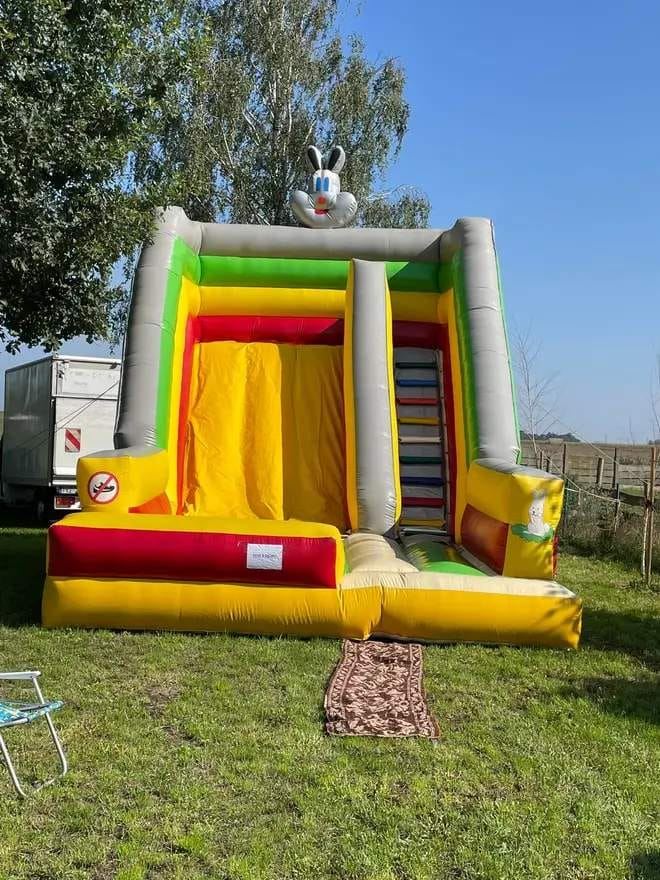
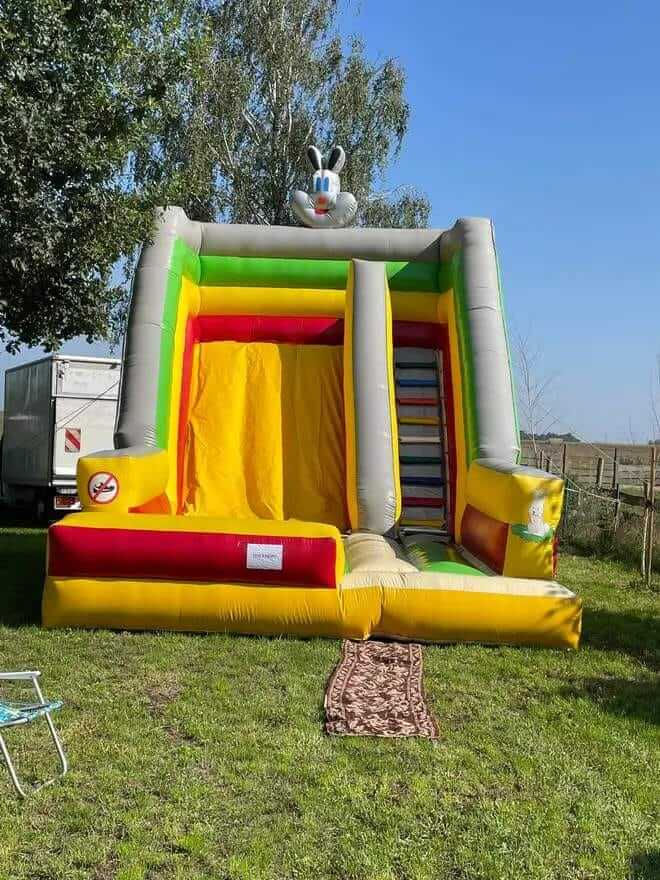
Change images format and reduce size

diff --git a/pages/index.vue b/pages/index.vue
@@ -75,6 +75,7 @@ const accordions = [
               alt="Obrazek zamku dmuchanego"
               width="596"
               height="596"
+              format="webp"
               class="-mt-4"
             />
           </div>
@@ -86,6 +87,7 @@ const accordions = [
           alt="Ikona kulki"
           width="24"
           height="24"
+          format="webp"
           class="absolute hidden w-6 sm:block bottom-12 xl:bottom-16 left-4 xl:left-0"
         />
         <NuxtImg
@@ -95,6 +97,7 @@ const accordions = [
           alt="Ikona kulki"
           width="24"
           height="24"
+          format="webp"
           class="hidden sm:block absolute top-4 sm:top-10 right-64 sm:right-96 xl:right-[32rem] w-6"
         />
         <NuxtImg
@@ -104,6 +107,7 @@ const accordions = [
           alt="Ikona kulki"
           width="24"
           height="24"
+          format="webp"
           class="absolute hidden w-6 sm:block bottom-56 right-24"
         />
         <NuxtImg
@@ -113,6 +117,7 @@ const accordions = [
           alt="Ikona gwiazdki"
           width="32"
           height="32"
+          format="webp"
           class="hidden sm:block absolute top-20 sm:top-28 right-16 lg:right-0 lg:left-[30rem] w-8"
         />
       </BaseSection>
@@ -136,7 +141,7 @@ const accordions = [
         </div>
         <div data-aos="fade-down" class="relative col-span-12 md:col-span-6 md:h-[315px] h-[160px]">
           <BaseYoutubeVideo
-            imageUrl="/img/gallery/duze-zjezdzalnie/dmuchana_zjeżdżalnia.jpeg"
+            imageUrl="/img/gallery/duze-zjezdzalnie/nowy-dmuchany-zamek.webp"
             videoId="FfinzxzyKUg"
             altText="Film z drona pokazującydmuchane zjeżdżalnie"
           />
@@ -149,6 +154,7 @@ const accordions = [
           alt="Ikona gwiazdki"
           width="24"
           height="24"
+          format="webp"
           loading="lazy"
           class="absolute hidden w-6 sm:block bottom-12 xl:bottom-16 left-4 xl:left-16"
         />
@@ -193,6 +199,7 @@ const accordions = [
           alt="Ikona kulki"
           width="24"
           height="24"
+          format="webp"
           loading="lazy"
           class="absolute hidden w-6 sm:block bottom-12 xl:top-16 right-4 xl:right-1/4"
         />
@@ -210,7 +217,7 @@ const accordions = [
           data-aos="fade-up"
           title="Dmuchane zjeżdżalnie"
           alt="Zdjęie zmuchanej zjeżdżalni"
-          pathPreview="/img/gallery/duze-zjezdzalnie/dmuchana_zjeżdżalnia.jpeg"
+          pathPreview="/img/gallery/duze-zjezdzalnie/nowy-dmuchany-zamek.webp"
           pathPage="/galeria/duze-zjezdzalnie"
           class="col-span-12 sm:col-span-6 md:col-span-4"
         />
@@ -220,8 +227,53 @@ const accordions = [
           data-aos-delay="100"
           title="Baseny z kulkami"
           alt="Zdjęie basenu z kulkami"
-          pathPreview="/img/gallery/baseny/basen z kulkami.jpeg"
+          pathPreview="/img/gallery/baseny/basen-z-kulkami.webp"
           pathPage="/galeria/baseny-z-kulkami"
+          class="col-span-12 sm:col-span-6 md:col-span-4"
+        />
+        <LandingTile
+          data-aos="fade-up"
+          data-aos-delay="200"
+          title="Kule wodne, łódeczki"
+          alt="Zdjęie rowerów wodnych"
+          pathPreview="/img/gallery/kule-wodne-lodeczki/rowery-wodne.webp"
+          pathPage="/galeria/kule-wodne-lodeczki"
+          class="col-span-12 sm:col-span-6 md:col-span-4"
+        />
+
+        <LandingTile
+          data-aos="fade-up"
+          title="Bramka celnościowa"
+          alt="Bramka celnościowa"
+          pathPreview="/img/gallery/bramka-celnosciowa/bramka-do-pilki.webp"
+          pathPage="/galeria/bramka-celnosciowa"
+          class="col-span-12 sm:col-span-6 md:col-span-4"
+        />
+        <LandingTile
+          data-aos="fade-up"
+          data-aos-delay="100"
+          title="Namioty imprezowe"
+          alt="Namioty imprezowe"
+          pathPreview="/img/gallery/namioty-imprezowe/namioty.webp"
+          pathPage="/galeria/namioty-imprezowe"
+          class="col-span-12 sm:col-span-6 md:col-span-4"
+        />
+        <LandingTile
+          data-aos="fade-up"
+          data-aos-delay="200"
+          title="Sztuczna krowa"
+          alt="Sztuczna krowa."
+          pathPreview="/img/gallery/sztuczna-krowa/sztuczna-krowa-do-dojenia.webp"
+          pathPage="/galeria/sztuczna-krowa"
+          class="col-span-12 sm:col-span-6 md:col-span-4"
+        />
+
+        <LandingTile
+          data-aos="fade-up"
+          title="Wata cukrowa, popcorn"
+          alt="Wata cukrowa"
+          pathPreview="/img/gallery/wata-cukrowa-popcorn/wata-cukrowa.webp"
+          pathPage="/galeria/wata-cukrowa-popcorn"
           class="col-span-12 sm:col-span-6 md:col-span-4"
         />
         
@@ -233,6 +285,7 @@ const accordions = [
           alt="Ikona kulki"
           width="12"
           height="12"
+          format="webp"
           loading="lazy"
           class="absolute hidden w-3 sm:block bottom-12 xl:top-2 xl:right-3/4"
         />
@@ -298,6 +351,7 @@ const accordions = [
           alt="Ikona gwiazdki"
           width="24"
           height="24"
+          format="webp"
           loading="lazy"
           class="absolute hidden w-6 sm:block xl:top-2 xl:right-3/4"
         />
@@ -307,6 +361,7 @@ const accordions = [
           alt="Ikona gwiazdki"
           width="24"
           height="24"
+          format="webp"
           loading="lazy"
           class="absolute hidden w-6 sm:block xl:top-9 xl:left-3/4"
         />
@@ -365,6 +420,7 @@ const accordions = [
               alt="Obrazek z logo partnera"
               width="288"
               height="139"
+              format="webp"
               loading="lazy"
               class="mx-auto sm:w-1/2 md:w-1/4 lg:w-72"
             />

diff --git a/pages/galeria/duze-zjezdzalnie.vue b/pages/galeria/duze-zjezdzalnie.vue
@@ -8,7 +8,7 @@ const paths = [
     '/img/gallery/duze-zjezdzalnie/dmuchana zjezdzalnia.jpeg',
     '/img/gallery/duze-zjezdzalnie/dmuchana zjeżdżalnia dla dzieci.jpeg',
     '/img/gallery/duze-zjezdzalnie/dmuchana zjeżdżalnia.jpeg',
-    '/img/gallery/duze-zjezdzalnie/dmuchana_zjeżdżalnia.jpeg',
+    '/img/gallery/duze-zjezdzalnie/nowy-dmuchany-zamek.webp',
     '/img/gallery/duze-zjezdzalnie/dmuchana-zjeżdżalnia.jpeg',
     '/img/gallery/duze-zjezdzalnie/dmuchane zamki.jpeg',
     '/img/gallery/duze-zjezdzalnie/dmuchany zamek dla dzieci.jpeg',

diff --git a/pages/galeria/kule-wodne-lodeczki.vue b/pages/galeria/kule-wodne-lodeczki.vue
@@ -1,0 +1,15 @@
+<script lang="ts" setup>
+definePageMeta({
+  layout: false,
+});
+
+const paths = [
+    '/img/gallery/kule-wodne-lodeczki/kule-wodne.jpeg',
+    '/img/gallery/kule-wodne-lodeczki/rowery-wodne.webp',
+    '/img/gallery/kule-wodne-lodeczki/rowery-wodne2.jpeg',
+];
+</script>
+
+<template>
+    <NuxtLayout name="gallery" :paths="paths" title="Kule wodne, lódeczki"/>
+</template>

diff --git a/pages/galeria/namioty-imprezowe.vue b/pages/galeria/namioty-imprezowe.vue
@@ -1,0 +1,15 @@
+<script lang="ts" setup>
+definePageMeta({
+  layout: false,
+});
+
+const paths = [
+    '/img/gallery/namioty-imprezowe/namiot.jpeg',
+    '/img/gallery/namioty-imprezowe/namioty-na-impreze.jpeg',
+    '/img/gallery/namioty-imprezowe/namioty.webp',
+];
+</script>
+
+<template>
+    <NuxtLayout name="gallery" :paths="paths" title="Namioty imprezowe"/>
+</template>

diff --git a/pages/galeria/baseny-z-kulkami.vue b/pages/galeria/baseny-z-kulkami.vue
@@ -5,7 +5,7 @@ definePageMeta({
 
 const paths = [
   '/img/gallery/baseny/dmuchany basen z kulkami.jpeg',
-  '/img/gallery/baseny/basen z kulkami.jpeg',
+  '/img/gallery/baseny/basen-z-kulkami.webp',
   '/img/gallery/baseny/basen_na_kulki.jpeg',
   '/img/gallery/baseny/basen_z_kulkami.jpeg',
   '/img/gallery/baseny/dmuchany_basen_z_kulkami.jpeg',

diff --git a/pages/galeria/bramka-celnościowa.vue b/pages/galeria/bramka-celnościowa.vue
@@ -1,0 +1,14 @@
+<script lang="ts" setup>
+definePageMeta({
+  layout: false,
+});
+
+const paths = [
+    '/img/gallery/bramka-celnosciowa/bramka-celnosciowa.jpeg',
+    '/img/gallery/bramka-celnosciowa/bramka-do-pilki.webp',
+];
+</script>
+
+<template>
+    <NuxtLayout name="gallery" :paths="paths" title="Bramka celnościowa"/>
+</template>

diff --git a/pages/galeria/sztuczna-krowa.vue b/pages/galeria/sztuczna-krowa.vue
@@ -1,0 +1,14 @@
+<script lang="ts" setup>
+definePageMeta({
+  layout: false,
+});
+
+const paths = [
+    '/img/gallery/sztuczna-krowa/sztuczna-krowa-do-dojenia.webp',
+    '/img/gallery/sztuczna-krowa/sztuczna-krowa.jpeg',
+];
+</script>
+
+<template>
+    <NuxtLayout name="gallery" :paths="paths" title="Namioty imprezowe"/>
+</template>

diff --git a/pages/galeria/wata-cukrowa-popcorn.vue b/pages/galeria/wata-cukrowa-popcorn.vue
@@ -1,0 +1,14 @@
+<script lang="ts" setup>
+definePageMeta({
+  layout: false,
+});
+
+const paths = [
+    '/img/gallery/wata-cukrowa-popcorn/popcorn.jpeg',
+    '/img/gallery/wata-cukrowa-popcorn/wata-cukrowa.webp',
+];
+</script>
+
+<template>
+    <NuxtLayout name="gallery" :paths="paths" title="Wata cukrowa, popcorn"/>
+</template>

diff --git a/layouts/gallery.vue b/layouts/gallery.vue
@@ -50,6 +50,7 @@ const selectImage = (index: number) => {
                   :alt="layoutCustomProps.title"
                   width="373"
                   height="280"
+                  format="webp"
                   loading="lazy"
                   @click="selectImage(index + 1)" 
                 />

diff --git a/components/base/YoutubeVideo.vue b/components/base/YoutubeVideo.vue
@@ -22,6 +22,7 @@ const url = computed(() => `https://www.youtube.com/embed/${props.videoId}?rel=0
         :alt="altText"
         width="596"
         height="315"
+        format="webp"
         class="w-full h-full"
       />
       <div class="absolute top-0 left-0 w-full h-full cursor-pointer">

diff --git a/components/base/Navbar.vue b/components/base/Navbar.vue
@@ -22,6 +22,7 @@ onMounted(() => {
                 alt="Dmuchńce Kępno Logo"
                 width="112"
                 height="83" 
+                format="webp"
                 class="w-24 xl:w-28" 
               />
             </NuxtLink>

diff --git a/components/base/Footer.vue b/components/base/Footer.vue
@@ -12,6 +12,7 @@
                 alt="Dmuchane Zamki Kępno Logo"
                 width="96"
                 height="71"
+                format="webp"
                 loading="lazy"
                 class="w-24 -mt-2" 
               />
